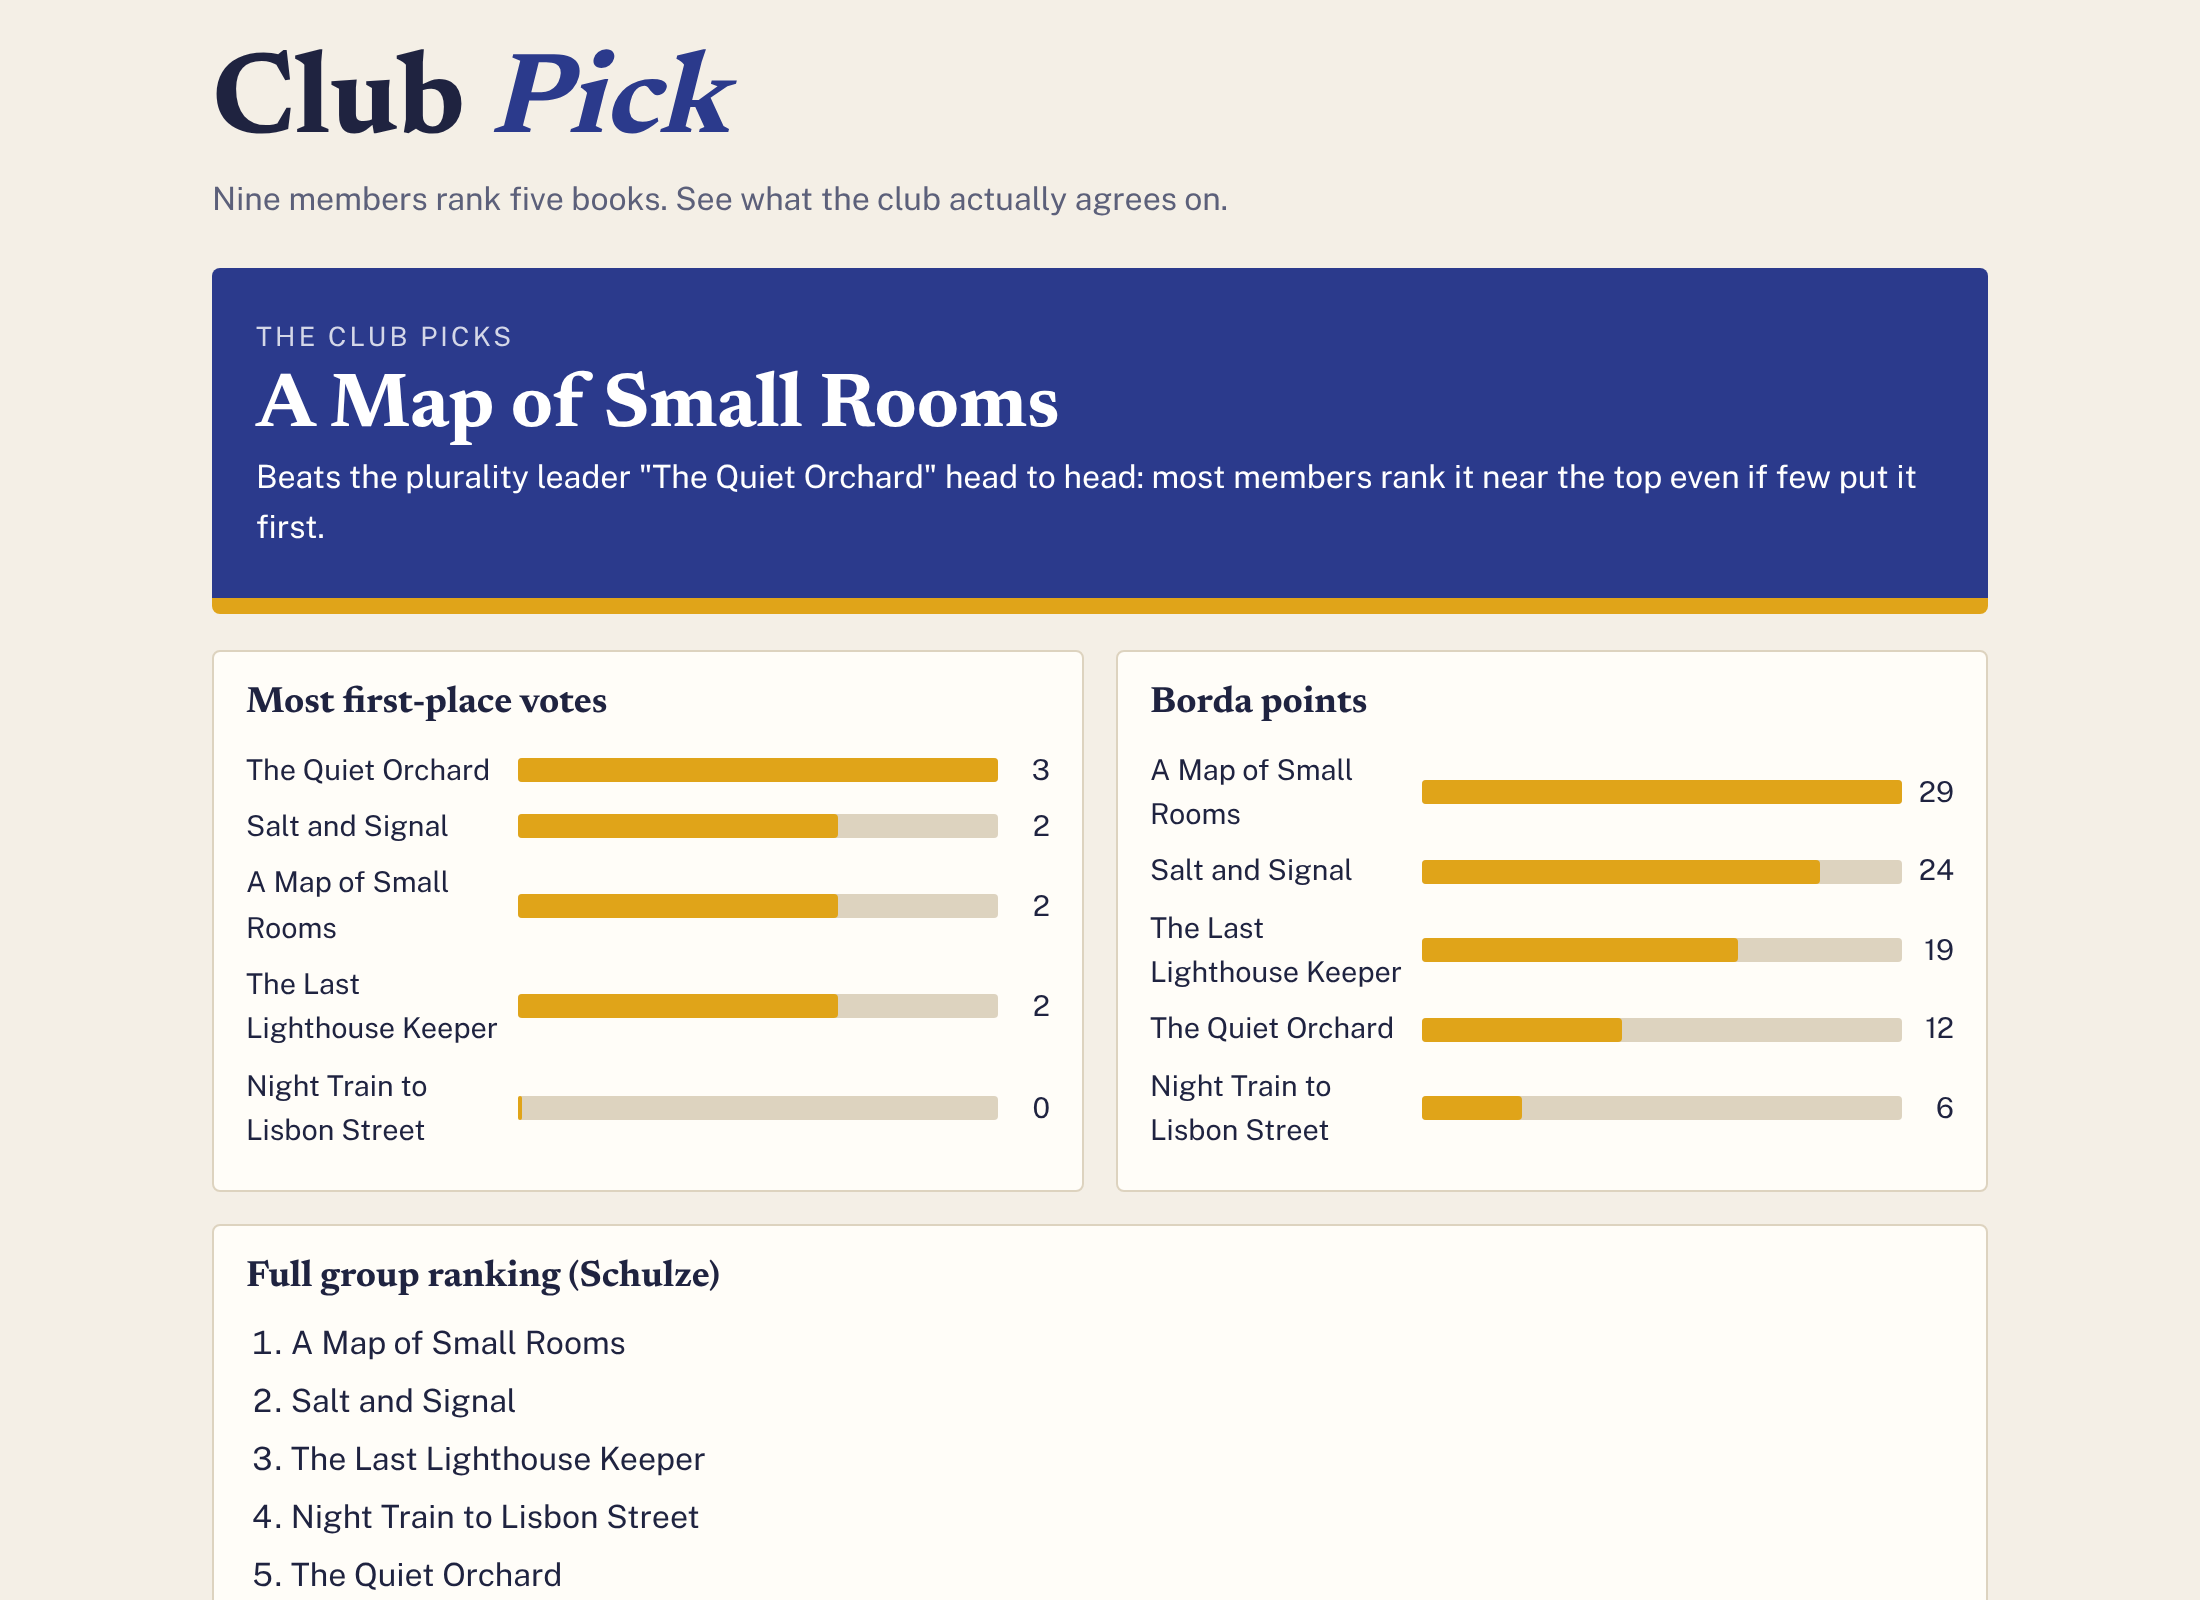
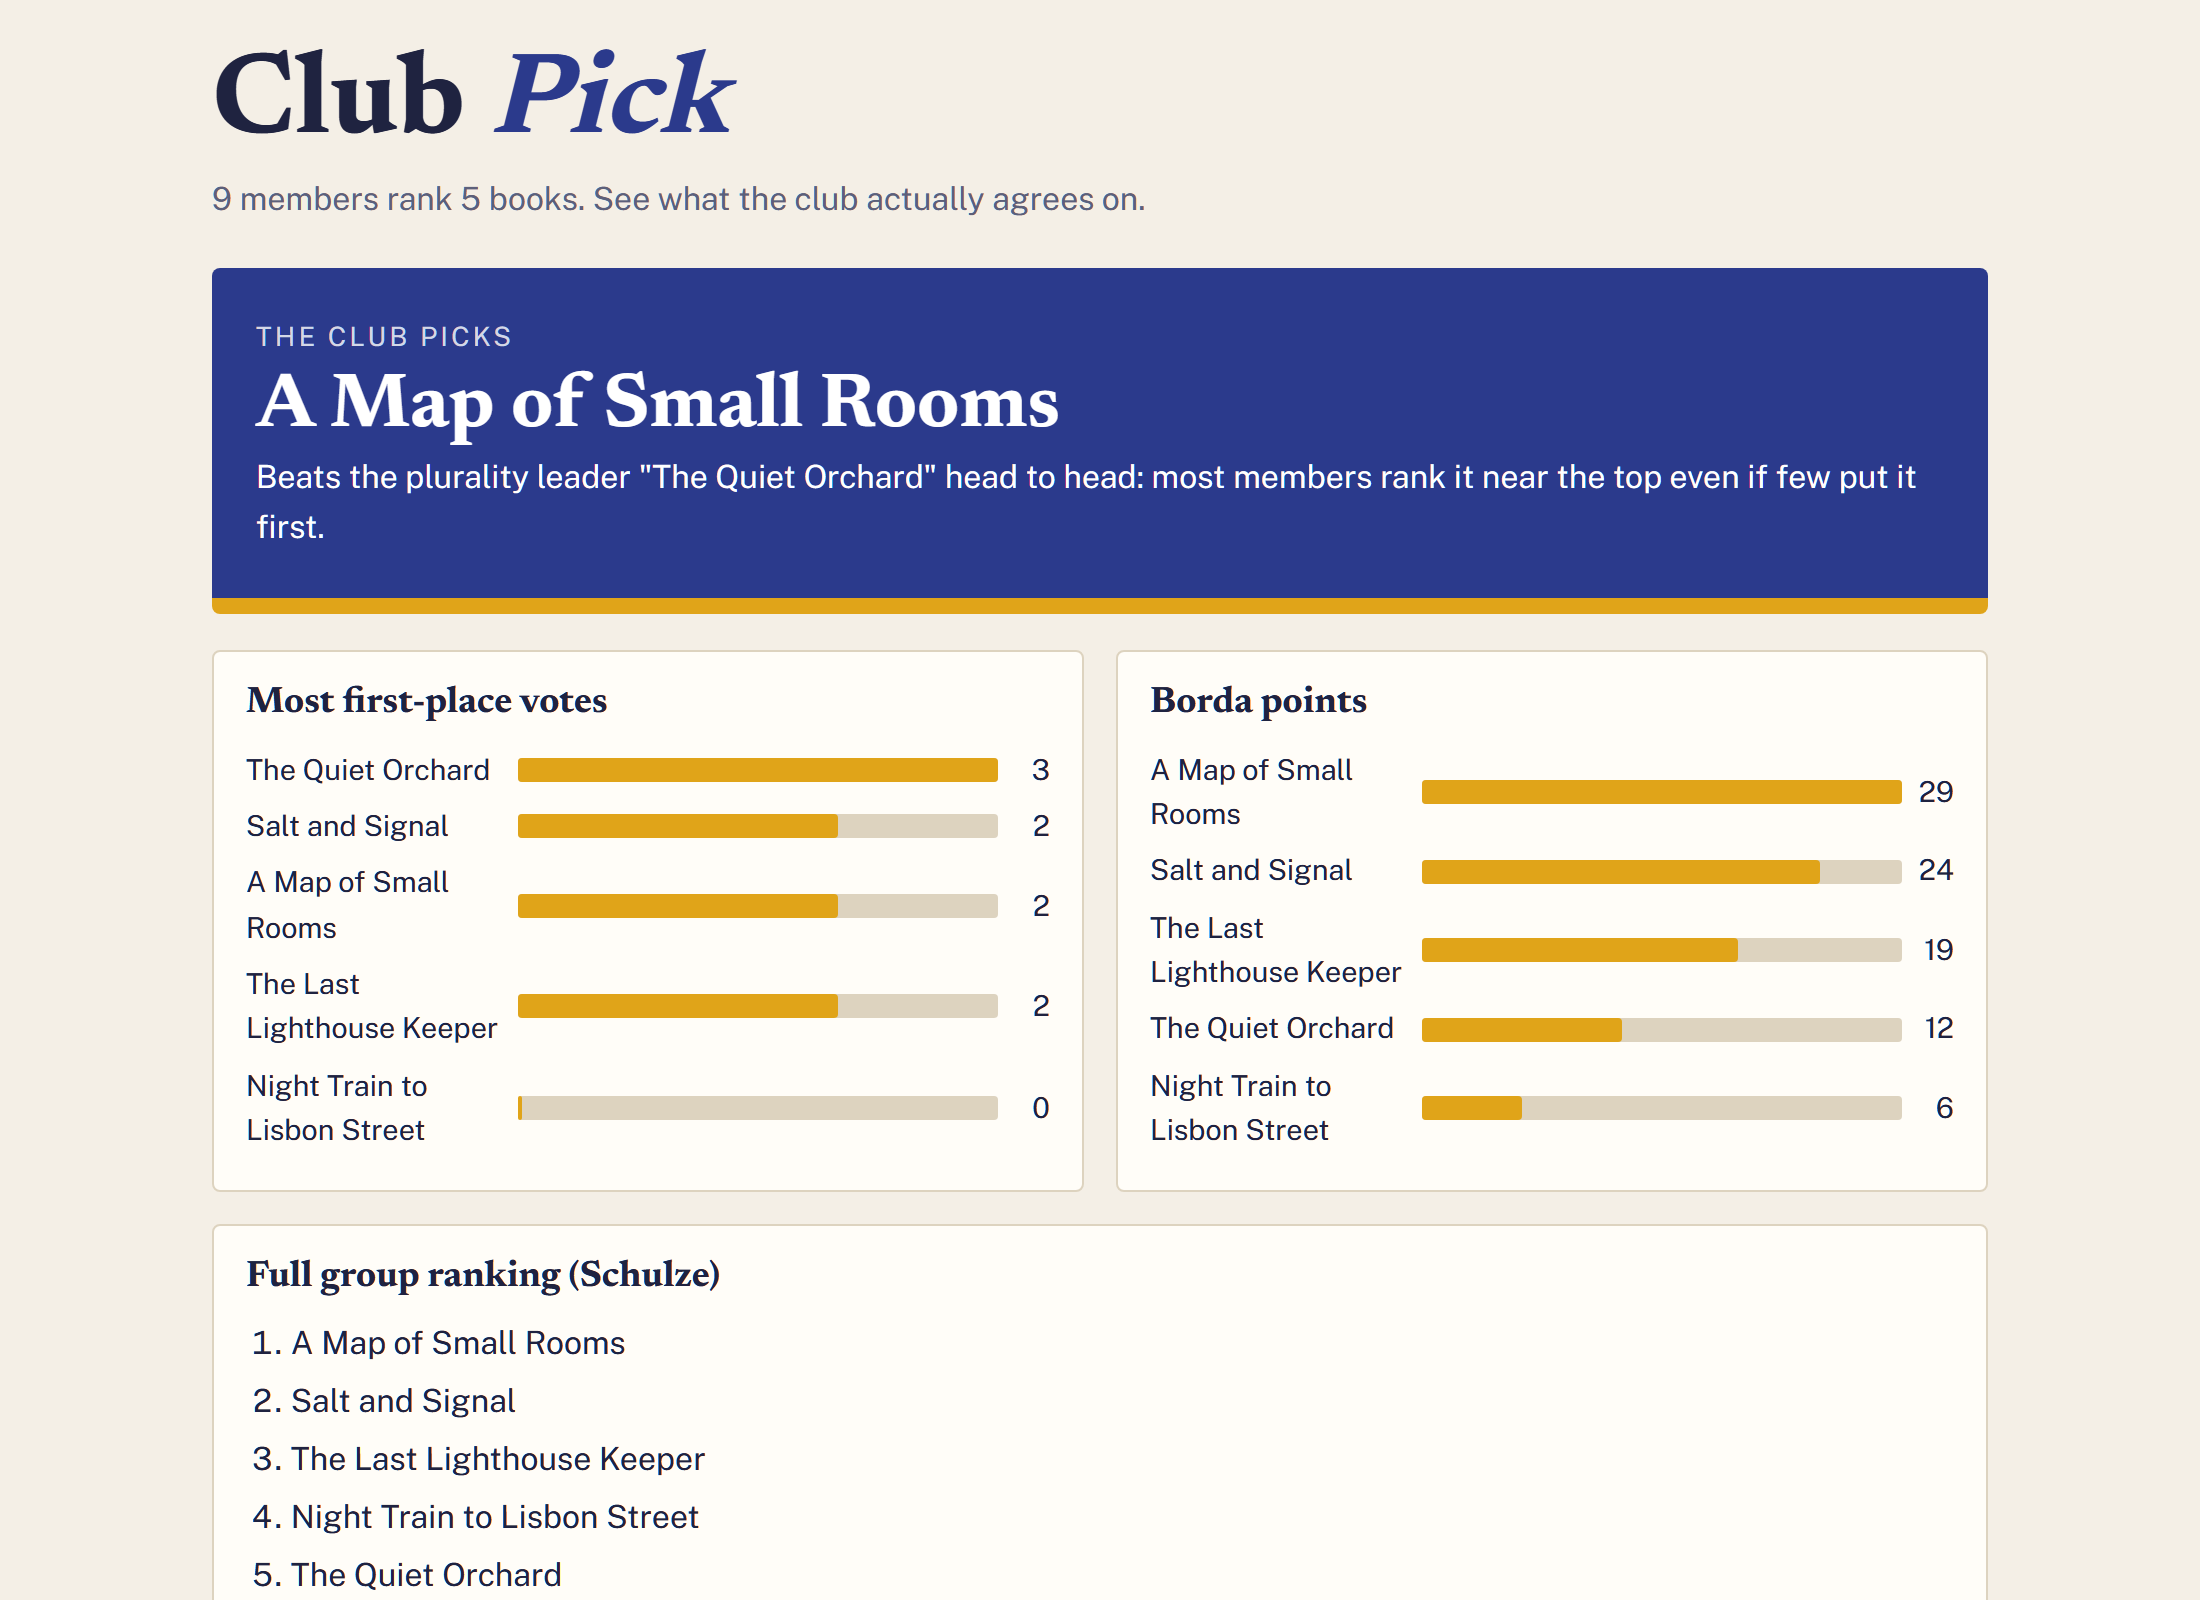
Update book-club-picker in catalog
Replaces the catalog snapshot of book-club-picker with its current branch state.

diff --git a/projects/book-club-picker/static/index.html b/projects/book-club-picker/static/index.html
@@ -14,18 +14,19 @@ main{max-width:920px;margin:auto;padding:24px 16px 56px}h1{font:700 clamp(2.2rem
 .num{text-align:right}ol{margin:0;padding-left:1.4em}li{padding:2px 0}.mute{color:var(--mute);font-size:.85rem}
 @media(prefers-reduced-motion:reduce){*{animation:none!important}}
 </style></head><body><main>
-<h1>Club <i>Pick</i></h1><p class="sub">Nine members rank five books. See what the club actually agrees on.</p>
+<h1>Club <i>Pick</i></h1><p class="sub" id="sub">Nine members rank five books. See what the club actually agrees on.</p>
 <div class="win" id="win" aria-live="polite"></div><div class="cols"><div class="box"><h3>Most first-place votes</h3><div id="pl"></div></div><div class="box"><h3>Borda points</h3><div id="bo"></div></div></div>
-<div class="box" style="margin-top:16px"><h3>Full group ranking (Schulze)</h3><ol id="or"></ol><p class="mute" id="mu"></p></div></main>
+<div class="box" style="margin-top:16px"><h3>Full group ranking (Schulze)</h3><ol id="or" aria-label="Group ranking, best first"></ol><p class="mute" id="mu"></p></div></main>
 <script>
 const $=i=>document.getElementById(i);
 function bars(o){const m=Math.max(...Object.values(o),1);return Object.entries(o).sort((a,b)=>b[1]-a[1]).map(([k,v])=>`<div class="row"><span>${k}</span><span class="bar"><i style="width:${v/m*100}%"></i></span><span class="num">${v}</span></div>`).join("")}
-async function go(){const s=await (await fetch("/sample")).json();
+async function go(){try{const s=await (await fetch("/sample")).json();
+$("sub").textContent=`${s.ballots.length} members rank ${s.books.length} books. See what the club actually agrees on.`;
 const d=await (await fetch("/tally",{method:"POST",headers:{"Content-Type":"application/json"},body:JSON.stringify(s)})).json();
 const diff=d.winner!==d.plurality_winner;
 $("win").innerHTML=`<small>The club picks</small><h2>${d.winner}</h2><p>${diff?`Beats the plurality leader "${d.plurality_winner}" head to head: most members rank it near the top even if few put it first.`:"Also the plurality leader."}</p>`;
 $("pl").innerHTML=bars(d.plurality);$("bo").innerHTML=bars(d.borda);
 $("or").innerHTML=d.schulze_order.map(b=>`<li>${b}</li>`).join("");
-$("mu").textContent=d.condorcet_winner?`"${d.condorcet_winner}" beats every other book in a head-to-head vote (Condorcet winner).`:"No book beats all others head to head; Schulze resolves the cycle."}
+$("mu").textContent=d.condorcet_winner?`"${d.condorcet_winner}" beats every other book in a head-to-head vote (Condorcet winner).`:"No book beats all others head to head; Schulze resolves the cycle."}catch(e){$("win").innerHTML="<small>Could not load the vote</small><h2>Try again</h2>"}}
 go();
 </script></body></html>

diff --git a/projects/book-club-picker/tests/test_all.py b/projects/book-club-picker/tests/test_all.py
@@ -82,3 +82,11 @@ def test_api():
 def test_api_errors():
     bad = {"books": ["a", "b"], "ballots": [{"voter": "x", "ranking": ["a", "a"]}]}
     assert c.post("/tally", json=bad).status_code == 422
+
+
+def test_index_has_error_text():
+    assert "Could not load the vote" in c.get("/").text
+
+
+def test_group_ranking_is_labelled():
+    assert 'aria-label="Group ranking, best first"' in c.get("/").text
